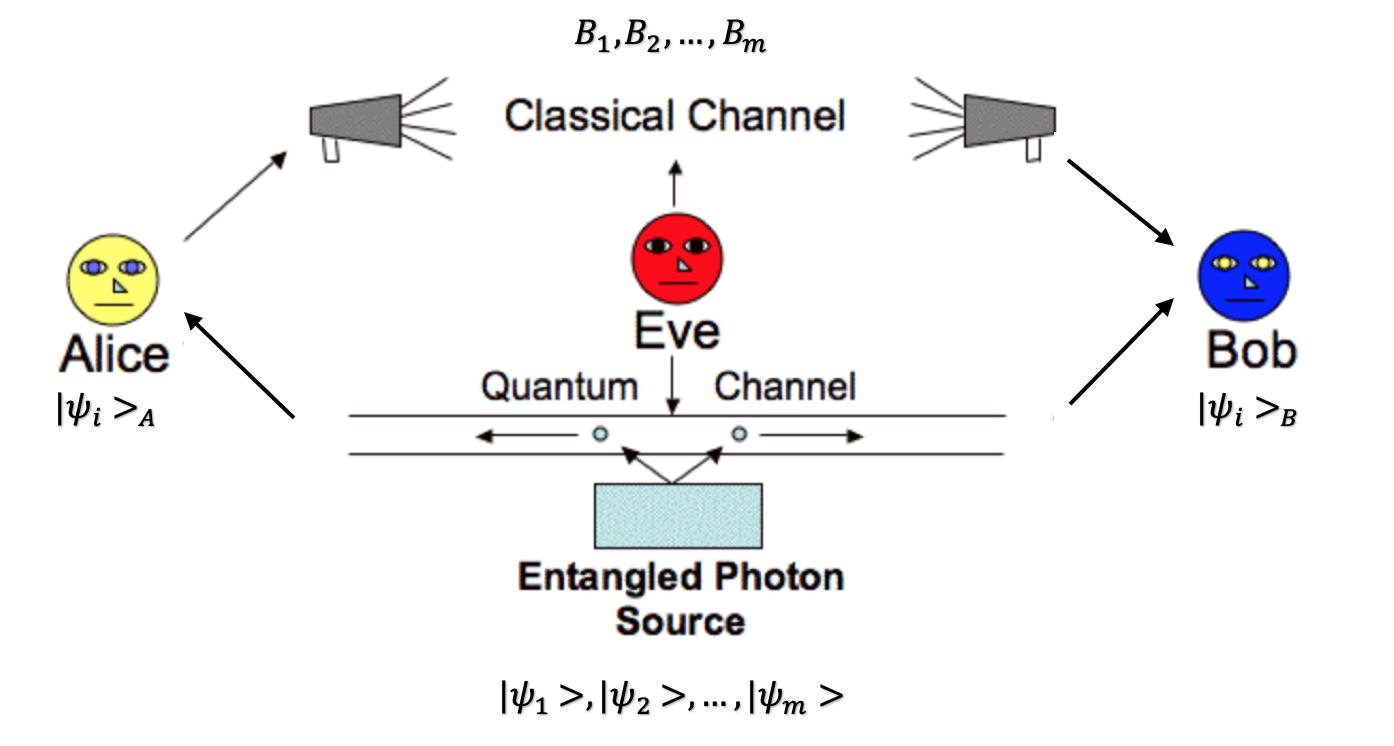
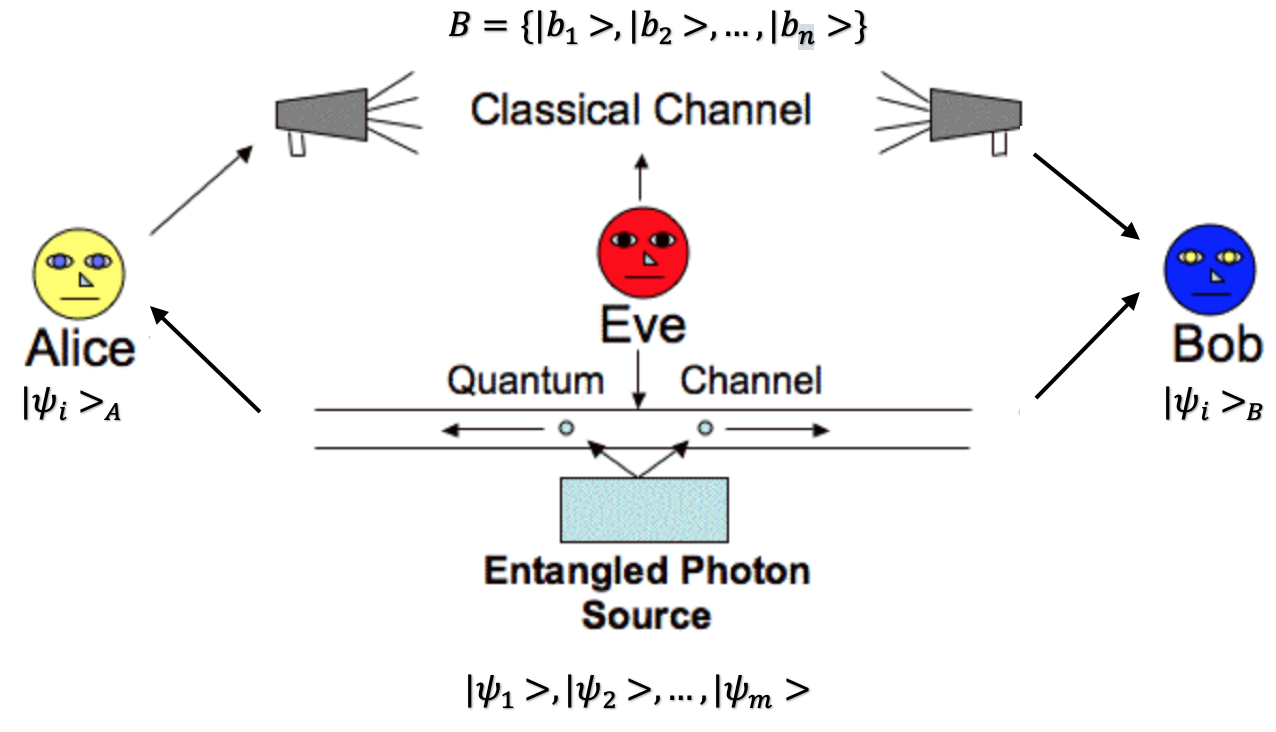
Addressed the comment in density matrices

diff --git a/Chapters/Chapter5.tex b/Chapters/Chapter5.tex
@@ -264,12 +264,13 @@ This increased probability of winning when making use of a quantum strategy, sug
 
 \section{BB84 Protocol}
 \textcolor{blue}{Alice doesn't really need the bases right?  Can you read this over and see what you think.  Also, please include a table consistent with the arrows I used.} \textcolor{green}{Why doesn't Alice need the bases? I put the texts I added in green. Feel free to change them back to black if you think they look good.}
+\textcolor{blue}{Maybe this is just semantics.  It seems like Alice never measures, she just sends photons.  I feel like she just needs a photon "emitter" but doesn't need the bases for measurement purposes}
 
-In 1984, Charles Bennett and Gilles Brassard published the first Quantum Key Distribution protocol \cite{Bennett1984} now commonly referred to as the BB84 Protocol. In this protocol, Alice and Bob use quantum mechanics to make a one-time pad for message transmission.  In this procedure, the benefit of using quantum mechanics comes from the fact that Alice and Bob can {\emph{find out whether or not they were observed \textcolor{green}{by an eavesdropper} during pad creation}}. 
+Here he present an application of quantum mechanics to cryptography.  In 1984, Charles Bennett and Gilles Brassard published the first Quantum Key Distribution protocol \cite{Bennett1984} now commonly referred to as the BB84 Protocol. In this protocol, Alice and Bob use quantum mechanics to make a one-time pad for message transmission.  In this procedure, the benefit of using quantum mechanics comes from the fact that Alice and Bob can {\emph{find out whether or not they were observed by an eavesdropper during pad creation}}. 
 
-In this protocol, Alice and Bob each have access to two different orthonormal bases, the standard (Rectilinear) basis, and the Hadamard (diagonal) basis, and Alice has a machine which can emit photons in any one of four polarizations corresponding to the four basis elements \textcolor{green}{in the two bases}.  
+In this protocol, Alice and Bob each have access to two different orthonormal bases, the standard (Rectilinear) basis, and the Hadamard (diagonal) basis, and Alice has a machine which can emit photons in any one of four polarizations corresponding to the four basis elements.  
 
-To describe this procedure, it's convenient to make some identifications.  First, we identify $\{\ket{0},\ket{1}\}$ with $\{\rightarrow, \uparrow\}$, and $\{\ket{+}, \ket{-}\}$ with $\{\nearrow, \nwarrow\}$ element by element.  Moreover, we think of the first element in each basis as being associated with the bit $0$, while the second element is associated with the bit $1$.  With this dictionary or encoding in mind \textcolor{green}{(as seen in \textbf{Figure \ref{fig:BB84 bit encoding})}}, we are now ready to describe the process.
+To describe this procedure, it's convenient to make some identifications.  First, we identify $\{\ket{0},\ket{1}\}$ with $\{\rightarrow, \uparrow\}$, and $\{\ket{+}, \ket{-}\}$ with $\{\nearrow, \nwarrow\}$ element by element.  Moreover, we think of the first element in each basis as being associated with the bit $0$, while the second element is associated with the bit $1$ as seen in \textbf{Figure \ref{fig:BB84 bit encoding}}.  With this dictionary in mind, we are now ready to describe the process.
 
 \begin{figure}[h]
     \centering
@@ -281,9 +282,9 @@ To describe this procedure, it's convenient to make some identifications.  First
 
 
 
-In the first phase, through a {\emph{quantum channel}}, Alice sends the information of a random string of bits to Bob, which she encodes as photons with the polorizations as described above. For each bit, she selects at random a basis to use, then sends a photon of the appropriate type.  For example, if she wishes to send $1$ and has picked the Hadamard basis, she transmits a photon of type $\nwarrow$ to Bob.  Bob will measure each photon he receives with one of the two bases which he also chooses randomly. Note that only when Bob has chosen the same basis as Alice, will Bob observe the correct outcome with certainty.  
+In the first phase, through a {\emph{quantum channel}}, Alice sends the information of a random string of bits to Bob, which she encodes as photons with the polorizations as described above. For each bit, she selects at random a basis to use, then sends a photon of the appropriate type.  For example, if she wishes to send $1$ and has picked the Hadamard basis, she transmits a photon of type $\nwarrow$ to Bob.  Bob will measure each photon he receives with one of the two bases, which he also chooses randomly. Note that only when Bob has chosen the same basis as Alice, will Bob observe the correct outcome with certainty.  
 
-In the second phase, Bob calls \footnote{\textcolor{green}{When we say "Bob calls Alice", we mean Bob interact with Alice via a classical communication channel that mitgh not be secure.}} Alice and tells her which basis he picked to measure each incoming photon. In each case, Alice responds by telling Bob whether he chose the correct basis for measurement. Then, both parties discard bits that correspond to photons which were measured with "the wrong" basis. Transcription errors notwithstanding, Bob and Alice now have the same string of bits, a piece of which they will soon use to construct a one-time pad.  This procedure is illustrated in \textbf{Table \ref{tab:bb84 protocol example}}.
+In the second phase, Bob calls \footnote{What is important here is that Bob interacts with Alice via a classical communication channel which need not be secure.} Alice and tells her which basis he picked to measure each incoming photon. In each case, Alice responds by telling Bob whether he chose the correct basis for measurement. Then, both parties discard bits that correspond to photons which were measured with "the wrong" basis. Transcription errors notwithstanding, Bob and Alice now have the same string of bits, a piece of which they will soon use to construct a one-time pad.  This procedure is illustrated in \textbf{Table \ref{tab:bb84 protocol example}}.
 
 \begin{table}[]
 \centering
@@ -301,7 +302,7 @@ Shared secret key & 0 &  & 1 &  &  & 0 &  & 1 \\ \hline
 \end{table}
 
 
-To make sure their one-time pad was constructed \textcolor{green}{without being hacked by an eavesdropper}, Alice and Bob pick a subset of the identical string of bits they have constructed and compare them to see if they actually agree. If they agree, they can discard these bits and use the remaining ones to make a one-time pad. On the other hand, if they don't agree it means that their transmission was hacked by Eve\footnote{It's worth noting that as a consequence of the no-cloning theorem (see \textbf{Theorem \ref{no-cloning thm}}), Eve cannot replicate the photon for her own \textcolor{green}{measurement and pass an undisturbed} original photon to Bob.}.  Even if Eve has access to both bases used by Bob, since Eve does not know which basis Alice picked to encode the bit, she has no alternative but to guess. For example, if Eve chooses the measurement basis incorrectly on average $\frac{1}{2}$ of the time, then Bob (using the same basis as Alice) will have the wrong bit with probability $\frac{1}{2} \cdot \frac{1}{2}=\frac{1}{4}$. Thus, if $m$ bits are compared, the probability of Eve's interference going undetected is $(\frac{3}{4})^m$, which is negligible for $m$ large.
+To make sure their one-time pad was constructed securely, Alice and Bob pick a subset of the identical string of bits they have constructed and compare them to see if they actually agree. If they agree, they can discard these bits and use the remaining ones to make a one-time pad. On the other hand, if they do not agree it must be the case that their transmission was hacked by Eve\footnote{It's worth noting that as a consequence of the no-cloning theorem (see \textbf{Theorem \ref{no-cloning thm}}), Eve cannot replicate the photon for her own measurement, and pass on the original photon to Bob.}.  Even if Eve has access to both bases used by Bob, since she does not know which basis Alice picked to encode the bit, she has no alternative but to guess. For example, if Eve chooses the measurement basis incorrectly on average $\frac{1}{2}$ of the time, then Bob (using the same basis as Alice) will have the wrong bit with probability $\frac{1}{2} \cdot \frac{1}{2}=\frac{1}{4}$. Thus, if $m$ bits are compared, the probability of Eve's interference going undetected is $(\frac{3}{4})^m$, which is negligible for $m$ large.
 
 %----------------------------------------------------------------------------------------
 %	SECTION 4
@@ -319,7 +320,7 @@ To make sure their one-time pad was constructed \textcolor{green}{without being 
 \footnotetext{Figure from \url{https://www.cse.wustl.edu/~jain/cse571-07/ftp/quantum/\#Gisin02}}
 
 
-In 1991, Eckert describes a quantum channel where there is a single source that emits pairs of entangled particles \cite{Ekert1991}. These entangled particles are all represented by states \footnote{A quantum state like this is usually called a singlet state in physics.}.
+We now present a second application of quantum mechanics to cryptography.  This protocol was published by Ekert in 1991\cite{Ekert1991}.  Here a single source that emits pairs of entangled particles, each represented by states \footnote{A quantum state like this is usually called a singlet state in physics.}.
 $$\frac{1}{\sqrt{2}}(\ket{10}-\ket{01}).$$
 As shown in figure \ref{fig:E91 Illustrated}, Alice and Bob then each receive one particle from every pair emitted from the source. Then they each choose a random basis out of three bases to measure on their received particles. 
 

diff --git a/Chapters/Chapter6.tex b/Chapters/Chapter6.tex
@@ -10,18 +10,18 @@
     \label{fig:actual entanglemen}
 \end{figure}
 
-When two particles are entangled, their states are so correlated that interacting with one immediately affects the other, even if they are far apart in space.  It is no wonder that Albert Einstein once described entanglement as "spooky action at a distance". While at this point we have defined entanglement (see {\bf{Definition}} \ref{definition: entanglement with state vector} and \textbf{Definition \ref{def: entanglement with density matrix}}) and used its properties (in the E91 Protocol laid out in \textbf{Section \ref{section: e91}}), it is natural to wonder {\emph{exactly}} when a composite state in $\mathbb{C}^n \otimes \mathbb{C}^n$ is entangled.
-Are all entangled systems equivalent, or are there some systems that are more entangled than others? In this chapter we answer these questions.
+When two particles are entangled, their states are so correlated that interacting with one immediately affects the other, even if they are far apart in space.  It is no wonder that Albert Einstein once described entanglement as "spooky action at a distance". While at this point we have defined entanglement (see {\bf{Definition}} \ref{definition: entanglement with state vector}) and used its properties (in \textbf{Section \ref{section: e91}}), we have not yet determined {\emph{exactly when}} a composite state in $\mathbb{C}^n \otimes \mathbb{C}^n$ is entangled.
+It is also not clear whether all entangled systems are equivalent, or whether some systems that are more entangled than others.  In this chapter we answer these questions.
 
 
-We will begin with a mathematical classification of when a 2-qudit state is a tensor product of two vectors and determine to what extent Alice's vector and Bob's vector are correlated. In the case that Alice's and Bob's vectors are highly correlated, we then examine how Bob can use this correlation to make a one-time pad. 
+We will begin with a mathematical classification of when a 2-qudit state is a tensor product of two vectors, and we determine to what extent Alice's vector and Bob's vector are correlated. In the case that Alice's and Bob's vectors are highly correlated, we then examine how Bob can use this correlation to make a one-time pad. 
 % We will begin with a mathematical classification of when a vector in a tensor product of two vector spaces is a product of two vectors. We apply this to the situation when Alice and Bob share a $2$-qudit quantum state in $\mathbb{C}^n \otimes \mathbb{C}^n$. When this is the case, we first determine exactly when and to what extent the vectors on Alice's and Bob's side of the tensor product are correlated. If Alice and Bob's side of 
 % We then use this idea to 
 
 
 When Alice and Bob each have a system with state space ${\mathbb{C}}^n$, we know that their composite system will have state space ${\mathbb{C}}^n \otimes {\mathbb{C}}^n={\mathbb{C}}^{n^2}$ by Postulate 4 in \textbf{Chapter \ref{Chapter3-postulates}}. If $\ket{\psi}$ is the state vector for their composite system, the convention is to think of all terms on the left-hand side of the tensor product symbol as representing Alice's system, and all terms on the right-hand side as representing Bob's system.  
 
-In the next Section we show that the rank of a matrix associated to a composite state $\ket{\psi}$ measures how entangled Alice's and Bob's systems are.
+In the next section we show that the rank of a matrix associated to a composite state $\ket{\psi}$ measures how entangled Alice's and Bob's systems are.
 
 %----------------------------------------------------------------------------------------
 %	SECTION 1
@@ -821,11 +821,8 @@ Let $\ket{\psi} \in {\mathbb{C}}^2 \otimes {\mathbb{C}}^2$ be a composite state 
 %----------------------------------------------------------------------------------------
 \pagebreak
 
-\textcolor{blue}{Need to add some here.  Also maybe add a diagram or a series of diagram} \textcolor{green}{done}
-\textcolor{red}{use Alice and Bob diagrams and a paragraph with an intro about the ideas}
-\textcolor{red}{just use the same basis throughout the time and say that our contribution is that alice and bob can share any maximally entangled state. }
 \section{Application to a One-time Pad}
-Recall one-time pad, as defined in \textbf{Definition \ref{def: classical one-time pad scheme}}. Say Alice wants to transmit an $m$-digit long message to Bob, she will need to create a one-time pad, which is a private key between Alice and Bob that is also m-digit long. The above classification of entanglement can potentially be used in the following cryptographic scheme.
+Recall one-time pad, as defined in \textbf{Definition \ref{def: classical one-time pad scheme}}. Say Alice wants to transmit an $m$-digit long message to Bob, she will need to create a one-time pad, which is a private key between Alice and Bob that is also m-digit long. The above classification of entanglement can potentially be used in the following cryptographic scheme. \textcolor{green}{It is similar to the EE91 Protocol in \textbf{Section \ref{section: e91}}, the difference being that now Alice and Bob can share any maximally entangled state instead of a specific state.}
 
 \begin{figure}[h]
     \centering
@@ -835,6 +832,6 @@ Recall one-time pad, as defined in \textbf{Definition \ref{def: classical one-ti
 
 \begin{enumerate}
     \item A third party creates a series of maximally entangled (as defined in \textbf{Definition \ref{def: maximally entangled}}) $2$-qudit states whose coefficient matrix transpose is a scalar multiple of a unitary matrix $L={\ket{\psi_1}, \ket{\psi_2}, \hdots, \ket{\psi_m}}$, where $\ket{\psi_i} \in \mathbb{C}^n \otimes \mathbb{C}^n$, and sends the left qudit of each state to Alice and the right qudit of each state to Bob via a secure quantum communication channel.
-    \item Over the phone, Alice tells Bob in order the set of orthonormal bases that she is going to make measurements with. In other words, for each $\ket{\psi_i}$, Alice randomly chooses an orthonormal basis $B_i=\{\ket{b_1}, \ket{b_2}, \hdots, \ket{b_n}\}$ and sends the elements in the basis in order to Bob.
-    \item For each qudit received from $L$, Alice makes a measurement and saves her result locally. With the knowledge of $L$ and the choice of each basis, Bob will be able to infer Alice's measurement outcome with certainty by {\bf{Proposition}} \ref{prop: ultimate}.  He saves the result for each $\ket{\psi_i}$ and in the end get an m-digit long key that can be used for one-time pad introduced in \textbf{Definition \ref{def: classical one-time pad scheme}}.
+    \item Over the phone, Alice tells Bob in order the \textcolor{green}{elements in the orthonormal basis} that she is going to make measurements with. \textcolor{green}{Call that} orthonormal basis $B=\{\ket{b_1}, \ket{b_2}, \hdots, \ket{b_n}\}$ .
+    \item For each qudit received from $L$, Alice makes a measurement \textcolor{green}{with respect to $B$} and saves her result locally. With the knowledge of $L$ and the choice of each basis, Bob will be able to infer Alice's measurement outcome with certainty by {\bf{Proposition}} \ref{prop: ultimate}.  He saves the result for each $\ket{\psi_i}$ and in the end get an $m$-digit long key that can be used for one-time pad introduced in \textbf{Definition \ref{def: classical one-time pad scheme}}.
 \end{enumerate}

diff --git a/Chapters/Chapter4.tex b/Chapters/Chapter4.tex
@@ -43,8 +43,6 @@ Clearly, the matrix $\iota(\ket{\psi})=\ket{\psi}\bra{\psi}$ can be regarded as 
 
 The following lemma shows that the function $\iota$ is an inclusion for our purposes.
 
-\textcolor{blue}{This proof below should be separated into two parts.  I think the sting of implications is fine for concluding that $a_i=e^{i\theta_i}b_i$ for every $i$.  Then, say "Now we consider two indices $i,j$" and finish the argument.  Basically there needs to be some words at the end.}
-
 \begin{lemma}
 \label{lemma state into density}
 Let $\ket{\psi_1}, \ket{\psi_2}$ be state vectors in ${\mathbb{C}}^n$ with $\iota({\ket{\psi_1}})=\iota(\ket{\psi_2})$.\\
@@ -62,30 +60,26 @@ a_n \Bar{a_1} && a_n \Bar{a_2} && \hdots && a_n \Bar{a_n}\\
 b_1 \Bar{b_1} && b_1 \Bar{b_2} && \hdots && b_1 \Bar{b_n}\\
 && && \vdots && \\
 b_n \Bar{b_1} && b_n \Bar{b_2} && \hdots && b_n \Bar{b_n}\\ 
-\end{pmatrix}\\
-\Rightarrow 
-\begin{cases}
-a_1 \Bar{a_1}=b_1 \Bar{b_1}\\
-a_2 \Bar{a_2}=b_2 \Bar{b_2}\\
-\hdots\\
-a_n \Bar{a_n}=b_n \Bar{b_n}\\
-a_1 \Bar{a_2}=b_1 \Bar{b_2}\\
-\hdots
-\end{cases}
-\Rightarrow \begin{cases}
-a_1 = e^{i\theta_1}b_1\\
-\hdots\\
-a_n = e^{i\theta_n}b_n\\
-a_1 \Bar{a_2}=b_1 \Bar{b_2}\\
-\hdots
-\end{cases}
-\Rightarrow \begin{cases}
-e^{i\theta_1}b_1 e^{-i\theta_2}\Bar{b_2}=b_1 \Bar{b_2}\\
-\hdots\\
-\end{cases}\\
-\Rightarrow \theta_1 = \theta_2 = \hdots = \theta_n
-\Rightarrow\ket{\psi_1}=e^{i\theta_1}\ket{\psi_2}
+\end{pmatrix}
 \end{gather}
+{\color{green}
+Then for all $i$, $$a_i \Bar{a_i}=b_i \Bar{b_i}.$$
+and for all $j$ such that $i \ne j$, 
+\begin{equation}\label{eqn: different index}
+    a_i \Bar{a_j}=b_i \Bar{b_j}
+\end{equation}
+Therefore, 
+\begin{equation}\label{eqn: same index}
+   a_i=e^{i\theta_i}b_i. 
+\end{equation}
+Substitute \eqref{eqn: same index} into \eqref{eqn: different index}, we get 
+\begin{equation}
+    e^{i\theta_i}b_i \overline{e^{j\theta_j}b_j}=b_i \Bar{b_j}.
+\end{equation}
+Hence, $$e^{i\theta_i}b_i e^{-i\theta_j}\Bar{b_j}=b_i \Bar{b_j}.$$
+So $\theta_i=\theta_j$ for all $i,j$.\\
+Therefore, $\ket{\psi_1}=\icol{e^{i\theta_1}b_1 \\ \vdots \\ e^{i\theta_1}b_n}=e^{i\theta_1}\ket{\psi_2}$
+}
 \end{proof}
 
 Since state vectors can only be determined up to a global phase, from a quantum mechanics perspective, the map $\iota$ is one-ton-one, hence state vectors are a special case of density matrices. The postulates of quantum mechanics can be formulated in the language of density matrices. Here we just present the definition of measuring with respect to an orthonormal basis using density matrices. In other words, the following is the density matrix version of \textbf{Definition \ref{def: measurement in a basis state vector}}.

diff --git a/Appendices/AppendixA.tex b/Appendices/AppendixA.tex
@@ -3,12 +3,7 @@
 \chapter{Projective Measurements} % Main appendix title
 
 \label{AppendixA} % Change X to a consecutive letter; for referencing this appendix elsewhere, use \ref{AppendixX}
-Postulate 3 can be completely restated in the context of projective measurements, which we present in the Appendix.
-
-
-
-
-The measurement postulate for projective measurements is superficially rather different from the general postulate above.
+{\bf{Postulate 3}} can be completely restated in the context of projective measurements, which we present here.
 \begin{quote}
     \textbf{Projective Measurements}: A projective measurement is described by an \textit{observable}, M, a Hermitian operator on the state space of the sytem being observed. The observable has a spectral decomposition,
     \begin{equation}
